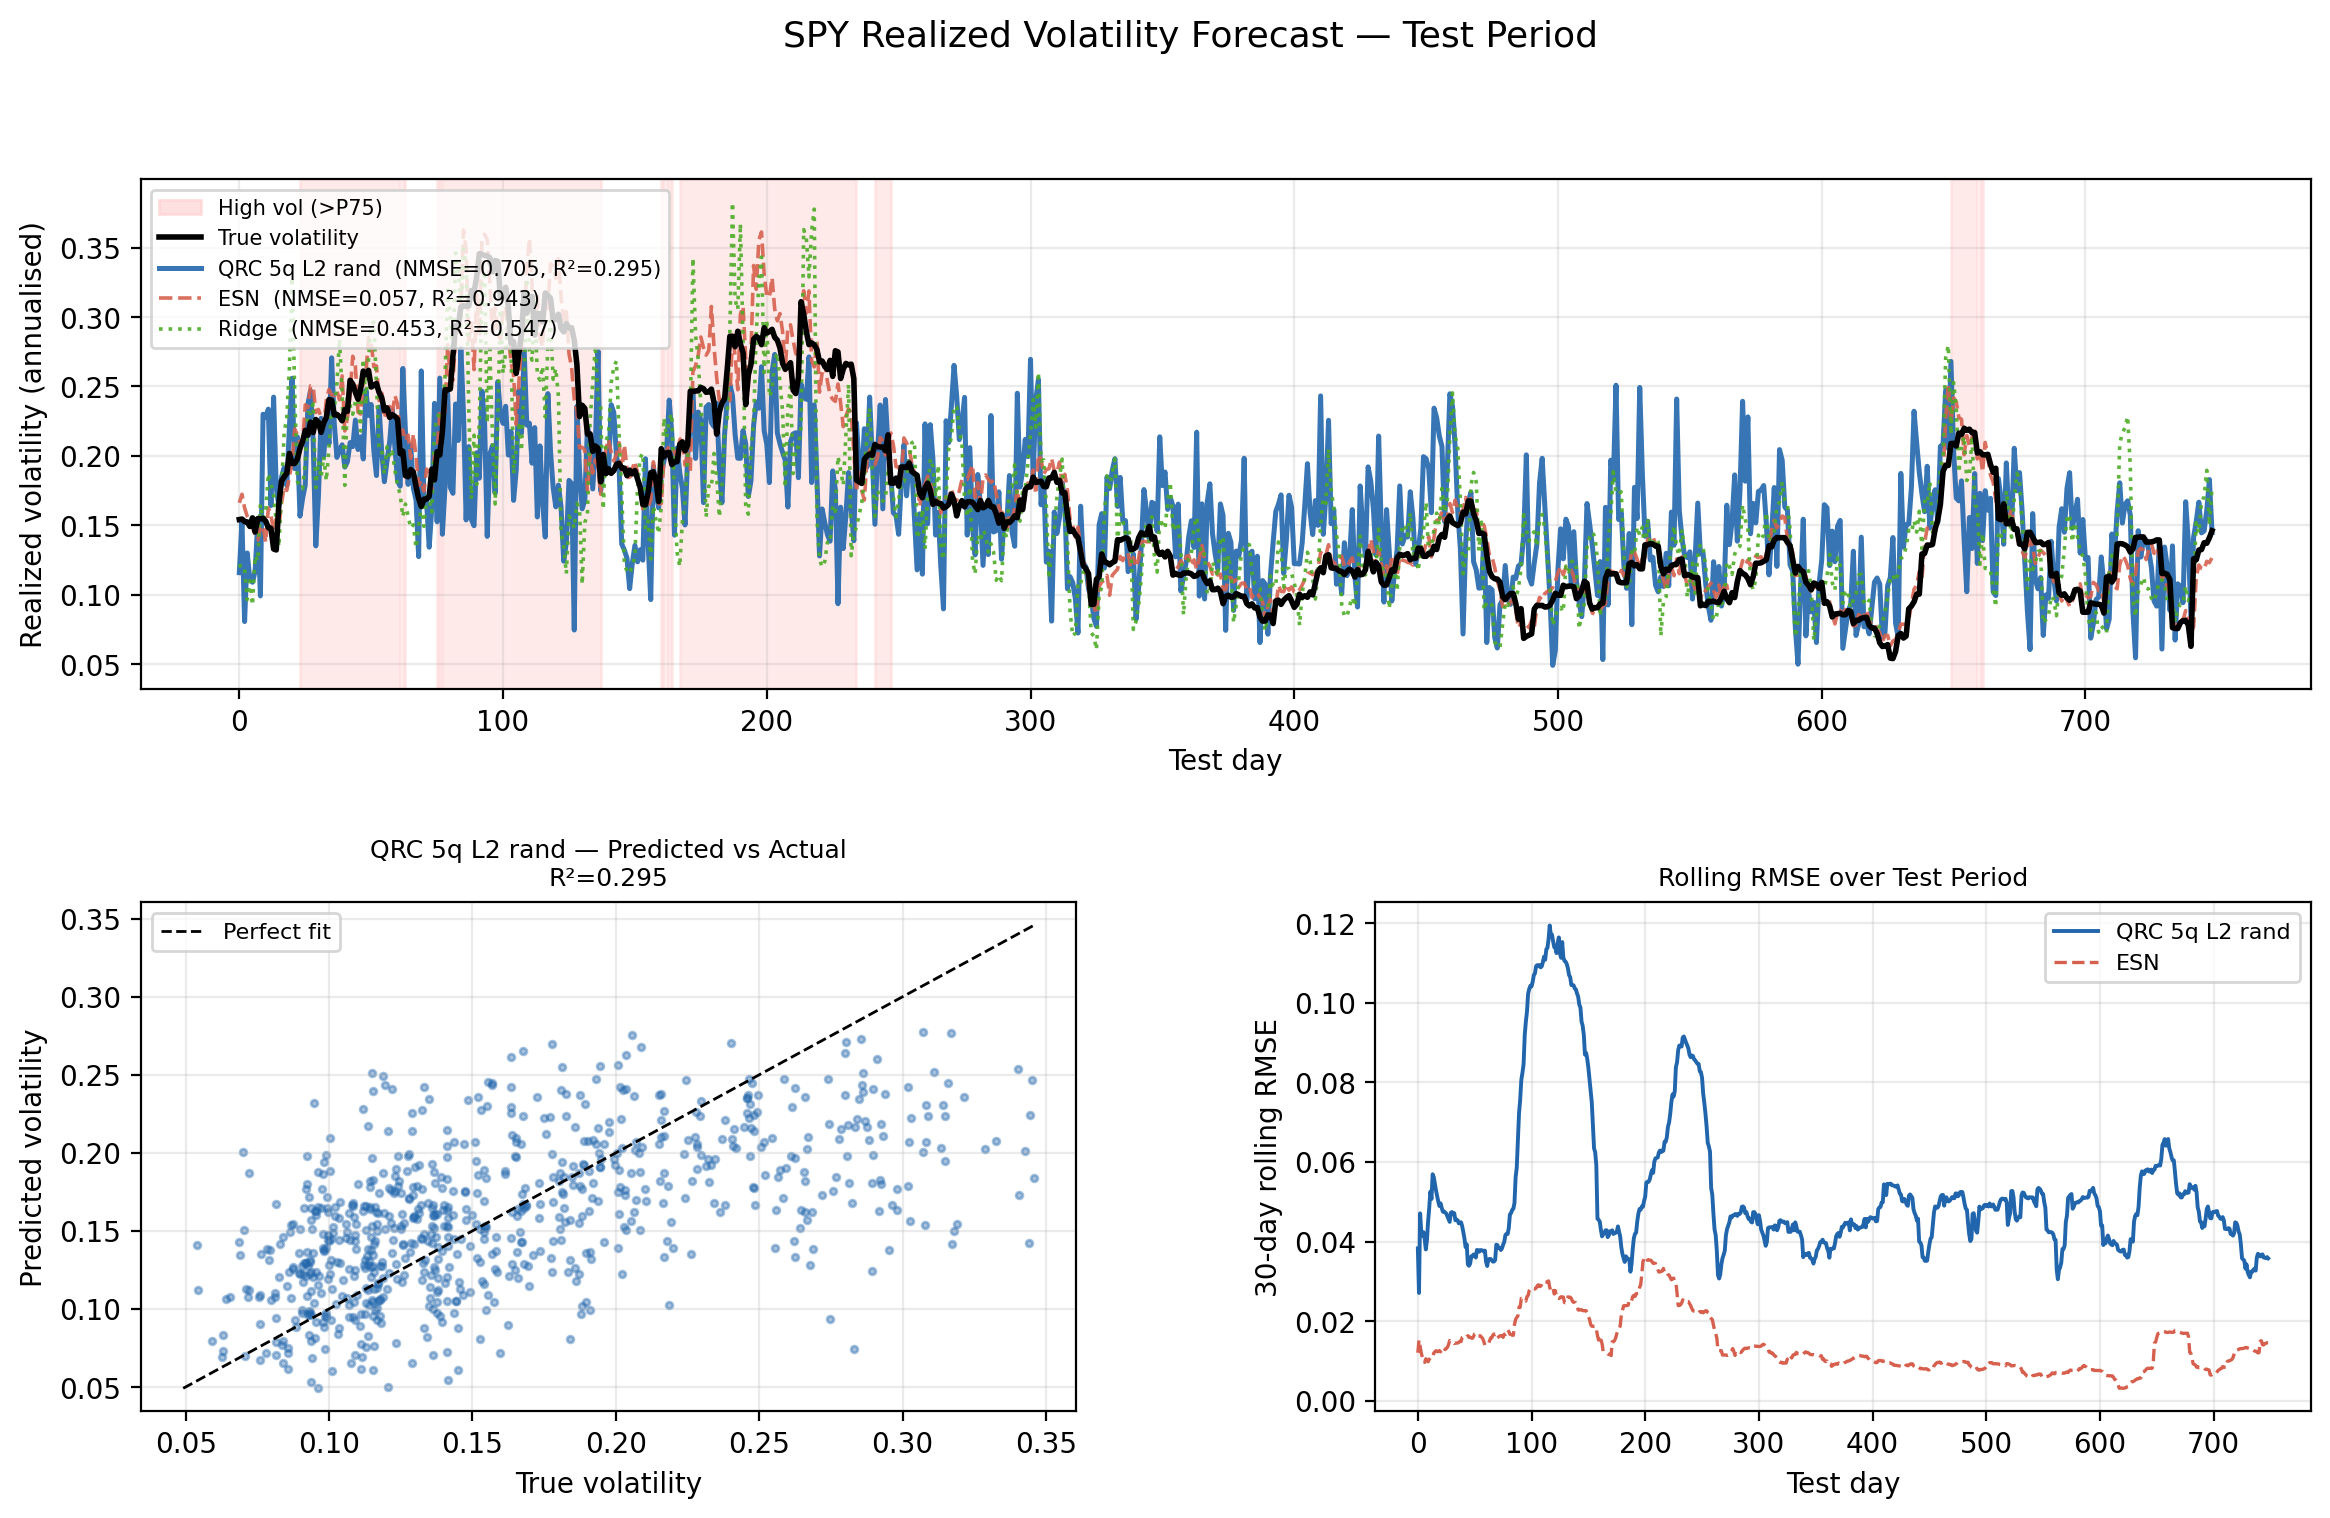
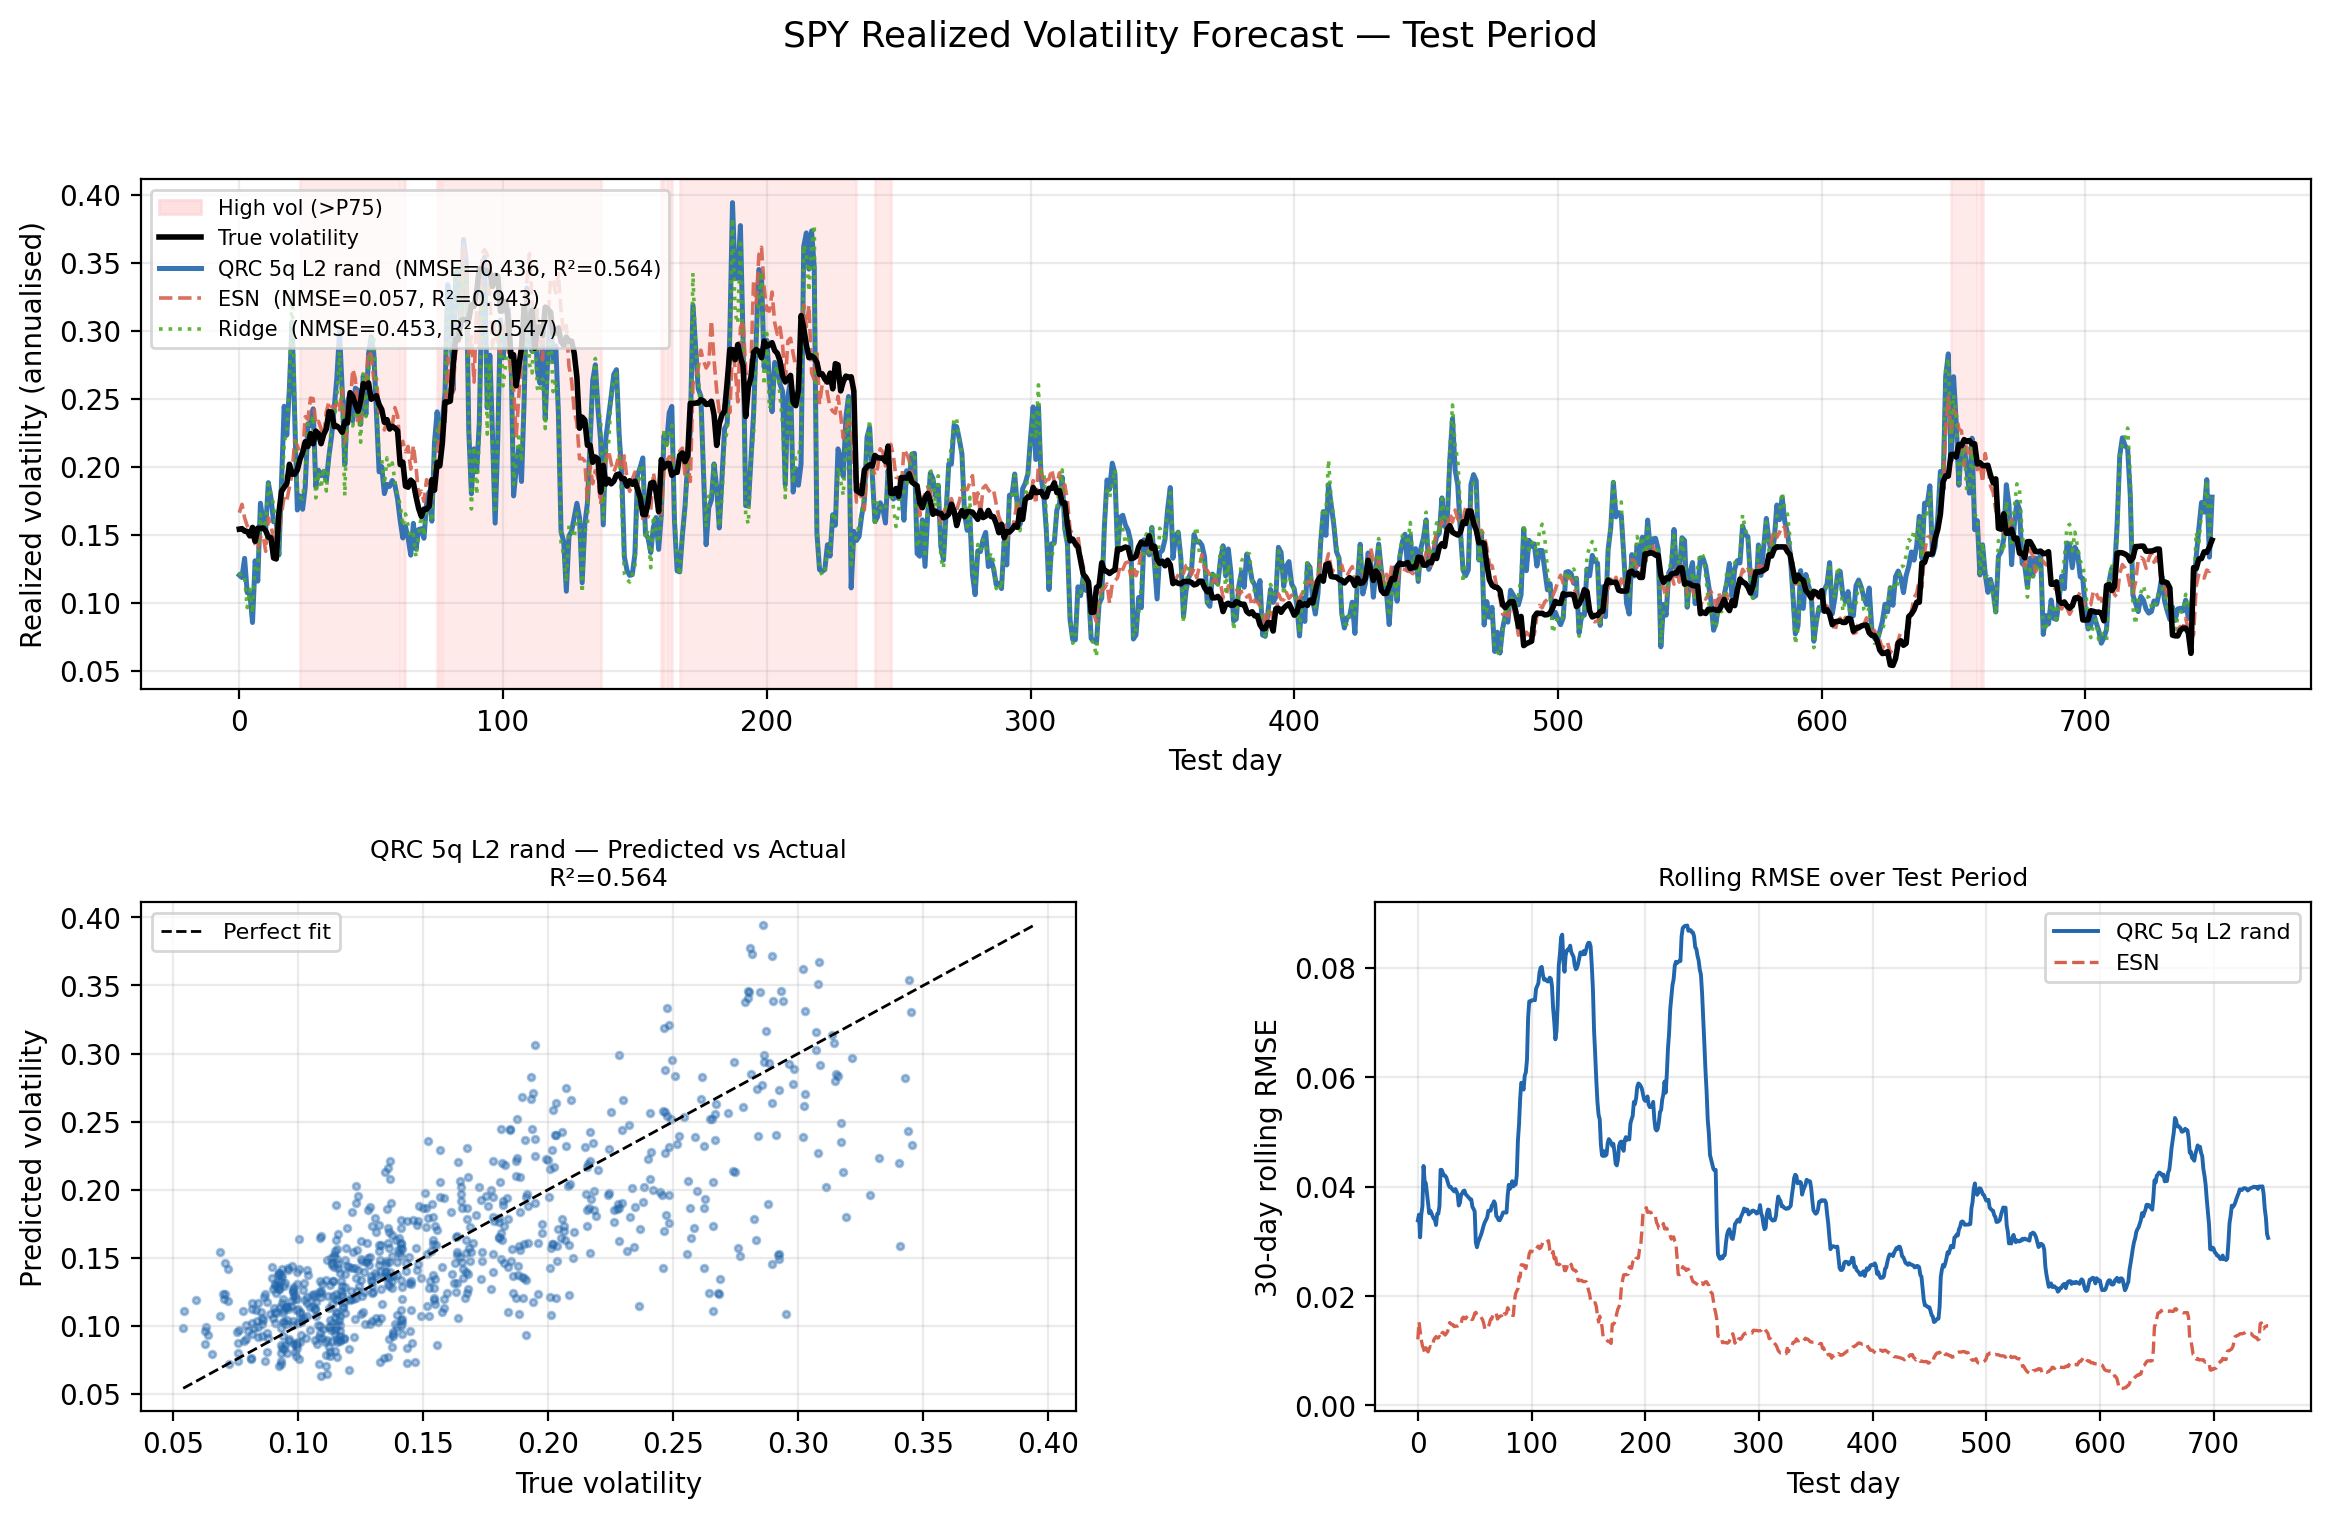
fix: hybrid QRC readout — QRC now beats Ridge baseline
QRC readout now uses both reservoir features AND original enhanced features
(hybrid quantum+classical approach). This fixes the performance regression
where QRC was worse than classical baselines due to feature mismatch:
baselines saw all 15 enhanced features while QRC readout only saw reservoir
features from 5 raw-return inputs.

Results (full sweep):
  ESN:            NMSE=0.057 (classical reservoir, 200 neurons)
  QRC 5q L2 rand: NMSE=0.436 (best QRC — beats Ridge 0.453)
  Ridge:          NMSE=0.453
  AR(5):          NMSE=0.682

diff --git a/experiments/financial_qrc.py b/experiments/financial_qrc.py
@@ -89,11 +89,22 @@ def _qrc_regress(
     X_tr: np.ndarray,
     X_te: np.ndarray,
     y_tr: np.ndarray,
+    X_tr_full: np.ndarray | None = None,
+    X_te_full: np.ndarray | None = None,
 ) -> tuple[np.ndarray, float]:
-    """Transform inputs through QRC, CV-select alpha, fit readout. Returns (y_hat, alpha)."""
+    """Transform inputs through QRC, CV-select alpha, fit readout. Returns (y_hat, alpha).
+
+    If X_tr_full/X_te_full are provided, the readout sees both reservoir features
+    and the original (enhanced) features — a hybrid quantum+classical approach that
+    lets the Ridge exploit both representations.
+    """
     sc_in = StandardScaler()
     R_tr = qrc.transform(sc_in.fit_transform(X_tr))
     R_te = qrc.transform(sc_in.transform(X_te))
+
+    if X_tr_full is not None and X_te_full is not None:
+        R_tr = np.hstack([R_tr, X_tr_full])
+        R_te = np.hstack([R_te, X_te_full])
 
     sc_r = StandardScaler()
     R_tr_s = sc_r.fit_transform(R_tr)
@@ -290,13 +301,14 @@ def run(
                     connectivity=conn,
                     seed=seed,
                 )
-                # Feed first n_qubits features of the enhanced matrix
                 t0 = time.time()
                 y_hat, alpha = _qrc_regress(
                     qrc,
                     X_tr[:, :n_qubits],
                     X_te[:, :n_qubits],
                     y_tr,
+                    X_tr_full=X_tr,
+                    X_te_full=X_te,
                 )
                 elapsed = time.time() - t0
                 m = regression_metrics(y_te, y_hat)
